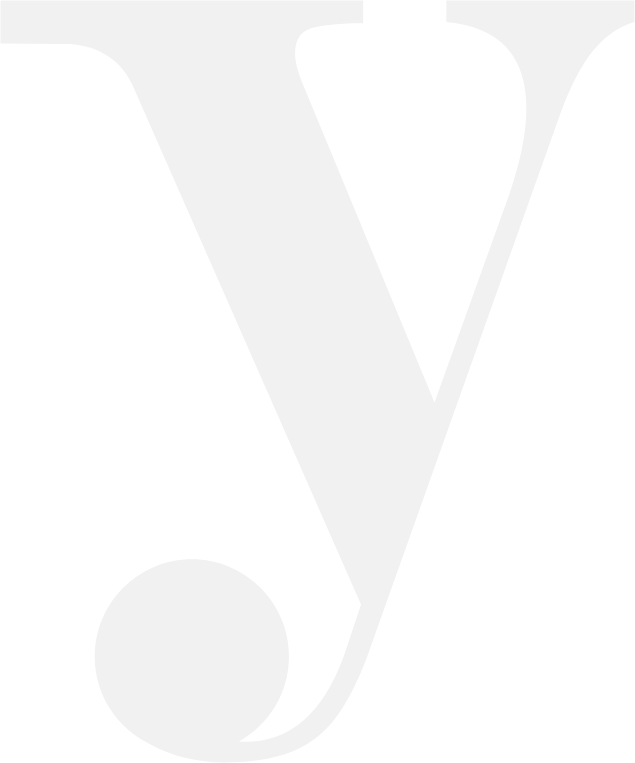
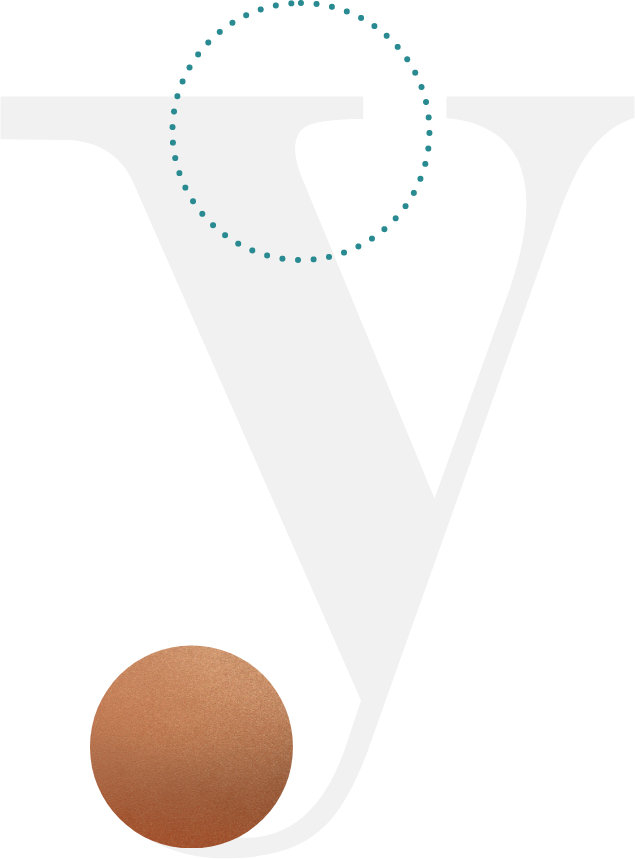
responsive 321

diff --git a/css/style.css b/css/style.css
@@ -728,6 +728,7 @@ main {
   position: absolute;
   left: 10%;
   z-index: -1;
+  width: 40%;
 }
 .trends .trends-left {
   width: 45%;
@@ -819,25 +820,6 @@ main {
 .trends .articals .artical .artical-details .artical-bottom i {
   font-size: small;
   margin: 0 15px;
-}
-
-.trends .trends-circles .dotted-circle {
-  width: 200px;
-  height: 200px;
-  border-radius: 50%;
-  border: 5px dotted var(--green-color);
-  position: absolute;
-  top: 10%;
-  left: 25%;
-}
-.trends .trends-circles .solid-circle {
-  width: 200px;
-  height: 200px;
-  border-radius: 50%;
-  background: var(--brown-color);
-  position: absolute;
-  bottom: 0;
-  left: 17%;
 }
 
 /* spreader */
@@ -1127,6 +1109,7 @@ main {
   /* trends */
 
   .trends {
+    margin-top: unset;
     padding: 10% 5%;
     flex-direction: column;
   }
@@ -1163,6 +1146,36 @@ main {
 
   .trends .articals .artical .artical-details .artical-bottom {
     font-size: 9px;
+  }
+
+  .trends .y-img {
+    width: 100%;
+    left: -4%;
+    top: 0;
+  }
+
+  /* .subscribe */
+
+  .subscribe {
+    flex-direction: column;
+    padding: 100px 20px;
+  }
+  .subscribe .circles .small-circle {
+    right: -25px;
+    bottom: 70px;
+    left: unset;
+  }
+  .subscribe p::after {
+    display: none;
+  }
+  .subscribe p {
+    width: 100%;
+    z-index: 2;
+  }
+
+  .subscribe form {
+    margin-top: 20px;
+    margin-right: 60px;
   }
 }
 
@@ -1313,7 +1326,7 @@ main {
 
   .trends .trends-left {
     width: 100%;
-    padding: 10% 20% 1% 20%;
+    padding: 10% 0%;
   }
 
   .trends .trends-left .btn {
@@ -1345,6 +1358,35 @@ main {
 
   .trends .articals .artical .artical-details .artical-bottom {
     font-size: 9px;
+  }
+
+  .trends .y-img {
+    width: 80%;
+    left: 0;
+  }
+
+  /* .subscribe */
+
+  .subscribe {
+    flex-direction: column;
+    padding: 100px 20px;
+  }
+  .subscribe .circles .small-circle {
+    right: -25px;
+    bottom: 70px;
+    left: unset;
+  }
+  .subscribe p::after {
+    display: none;
+  }
+  .subscribe p {
+    width: 100%;
+    z-index: 2;
+  }
+
+  .subscribe form {
+    margin-top: unset;
+    margin-right: unset;
   }
 }
 
@@ -1500,6 +1542,33 @@ main {
 
   .trends .articals .artical .artical-details .artical-bottom {
     font-size: 12px;
+  }
+
+  .trends .y-img {
+    width: 60%;
+    left: 0;
+  }
+
+  /* .subscribe */
+
+  .subscribe {
+    flex-direction: column;
+    padding: 100px 150px;
+  }
+  .subscribe .circles .small-circle {
+    left: 10%;
+    bottom: 20%;
+    right: unset;
+  }
+
+  .subscribe p {
+    width: 100%;
+    z-index: 2;
+  }
+
+  .subscribe form {
+    margin-top: 20px;
+    margin-right: 60px;
   }
 }
 
@@ -1670,7 +1739,7 @@ main {
   /* trends */
 
   .trends {
-    padding: 10% 5%;
+    padding: 5% 5% 10% 5%;
     flex-direction: row;
   }
 
@@ -1708,6 +1777,24 @@ main {
 
   .trends .articals .artical .artical-details .artical-bottom {
     font-size: 12px;
+  }
+  .trends .y-img {
+    width: 40%;
+    left: 10%;
+  }
+  /* subscribe */
+  .subscribe {
+    flex-direction: row;
+    padding: 100px 200px;
+  }
+
+  .subscribe p {
+    width: 60%;
+    z-index: 2;
+  }
+
+  .subscribe form {
+    margin-top: unset;
   }
 }
 

diff --git a/index.html b/index.html
@@ -289,10 +289,6 @@
         </div>
       </section>
       <section class="trends">
-        <div class="trends-circles">
-          <div class="dotted-circle"></div>
-          <div class="solid-circle"></div>
-        </div>
         <img src="./img/luiv.png" alt="luiv" class="y-img" />
         <div class="trends-left">
           <small>Blog</small>
